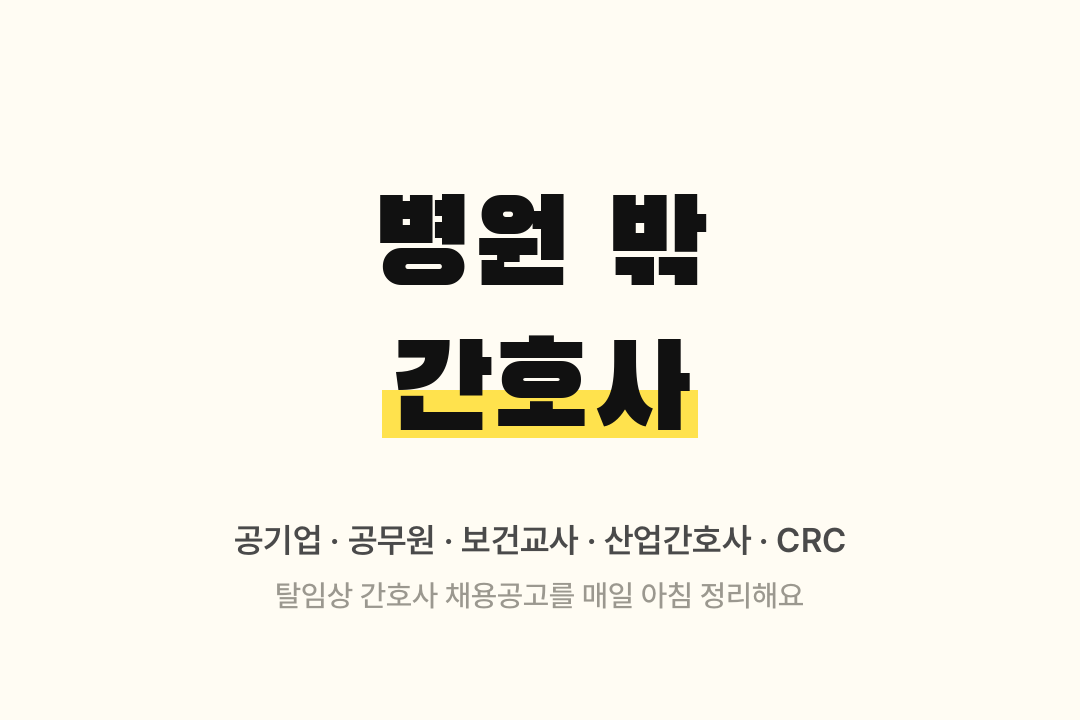
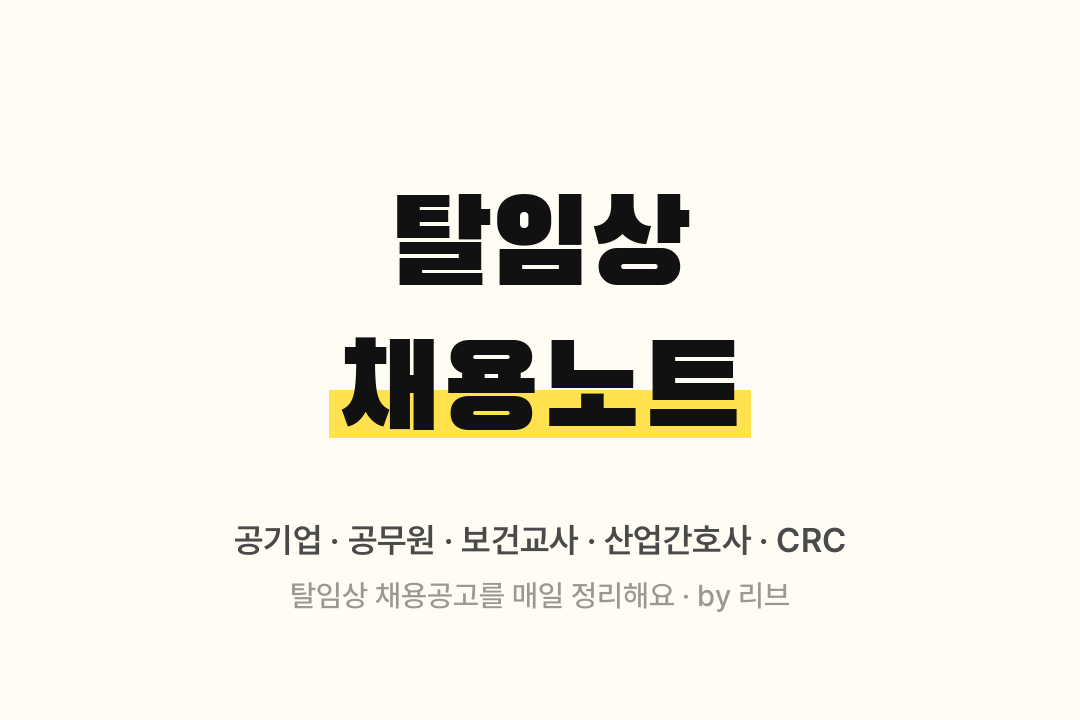
브랜드명 '탈임상 채용노트'로 변경, 블로그 이미지 재생성
Claude-Session: https://claude.ai/code/session_015ozFBvjxcWAyqLYfTbBGCZ

Changed region(s): [[0.3056, 0.4583, 0.7028, 0.6111], [0.3361, 0.2444, 0.6722, 0.3972], [0.2444, 0.7944, 0.7333, 0.8556]]

diff --git a/src/render.py b/src/render.py
@@ -17,7 +17,7 @@ W, H = 1080, 1350
 PAD = 80
 FONT_DIR = Path(__file__).resolve().parent.parent / "fonts"
 
-BRAND = os.environ.get("BRAND_NAME") or "병원 밖 간호사"
+BRAND = os.environ.get("BRAND_NAME") or "탈임상 채용노트"
 HANDLE = os.environ.get("IG_HANDLE", "")
 
 # 색상: 크림 바탕 + 검정 글자 + 노란 형광펜

diff --git a/README.md b/README.md
@@ -1,4 +1,4 @@
-# 병원 밖 간호사 · 탈임상 공고 자동화
+# 탈임상 채용노트 · 탈임상 공고 자동화
 
 매일 아침 자동으로 실행됩니다. **추가 비용 없이** 동작해요.
 
@@ -25,7 +25,7 @@ GitHub 저장소 → **Settings → Secrets and variables → Actions → New re
 
 | 이름 | 예시 |
 |---|---|
-| `BRAND_NAME` | 병원 밖 간호사 |
+| `BRAND_NAME` | 탈임상 채용노트 |
 | `IG_HANDLE` | 인스타 아이디 (@ 빼고) |
 | `PAGES_BASE_URL` | https://내아이디.github.io/nurse_jobs |
 | `IG_AUTO_POST` | `true`면 매일 자동 업로드 (처음엔 비워두는 걸 추천) |
